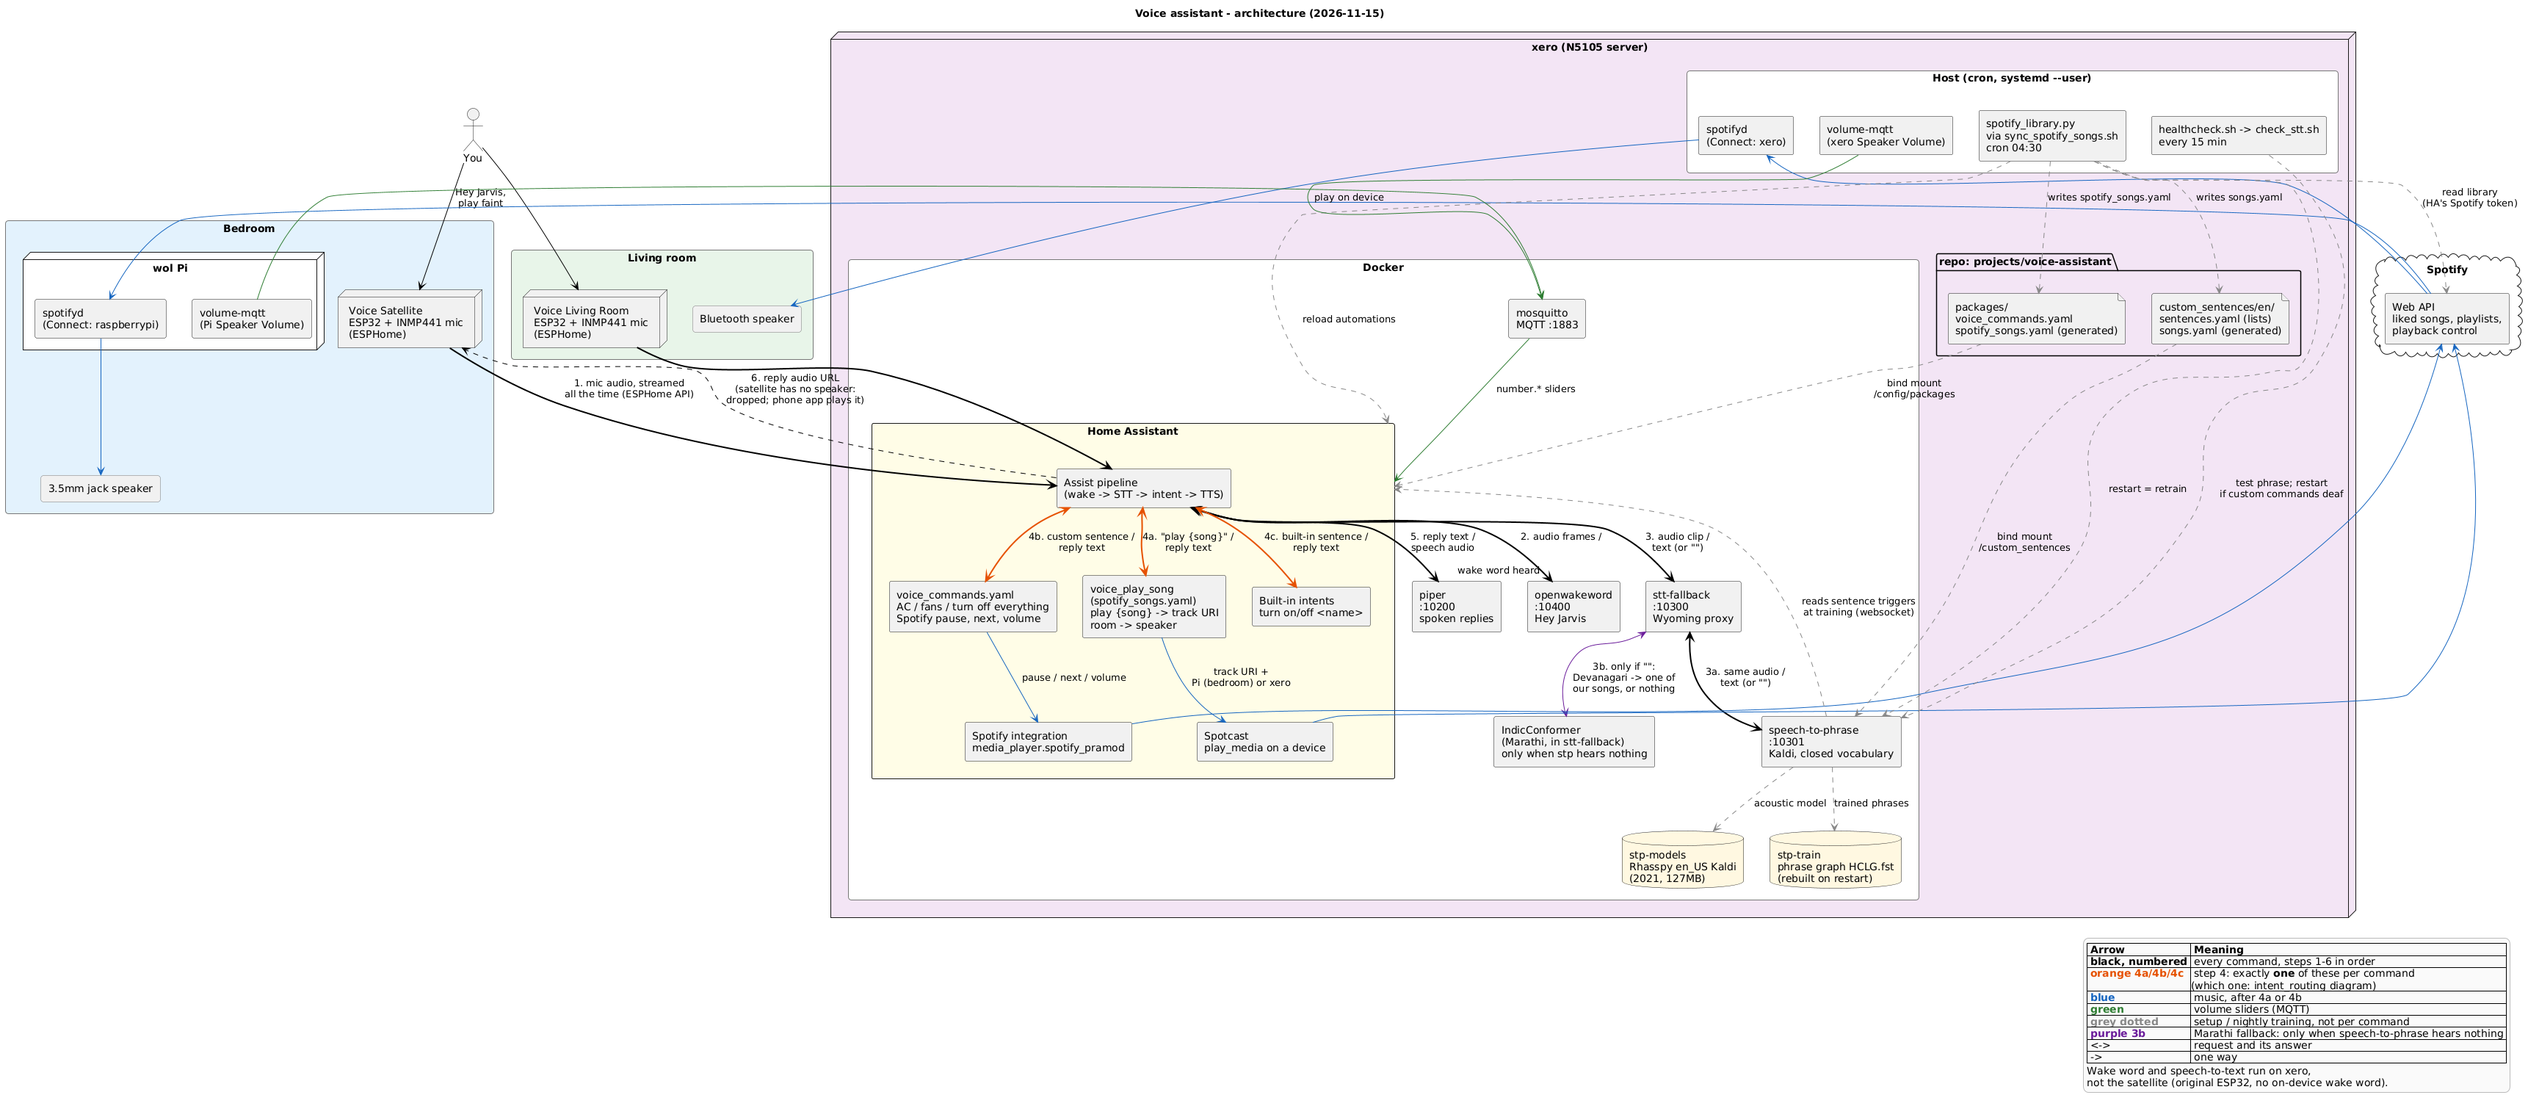
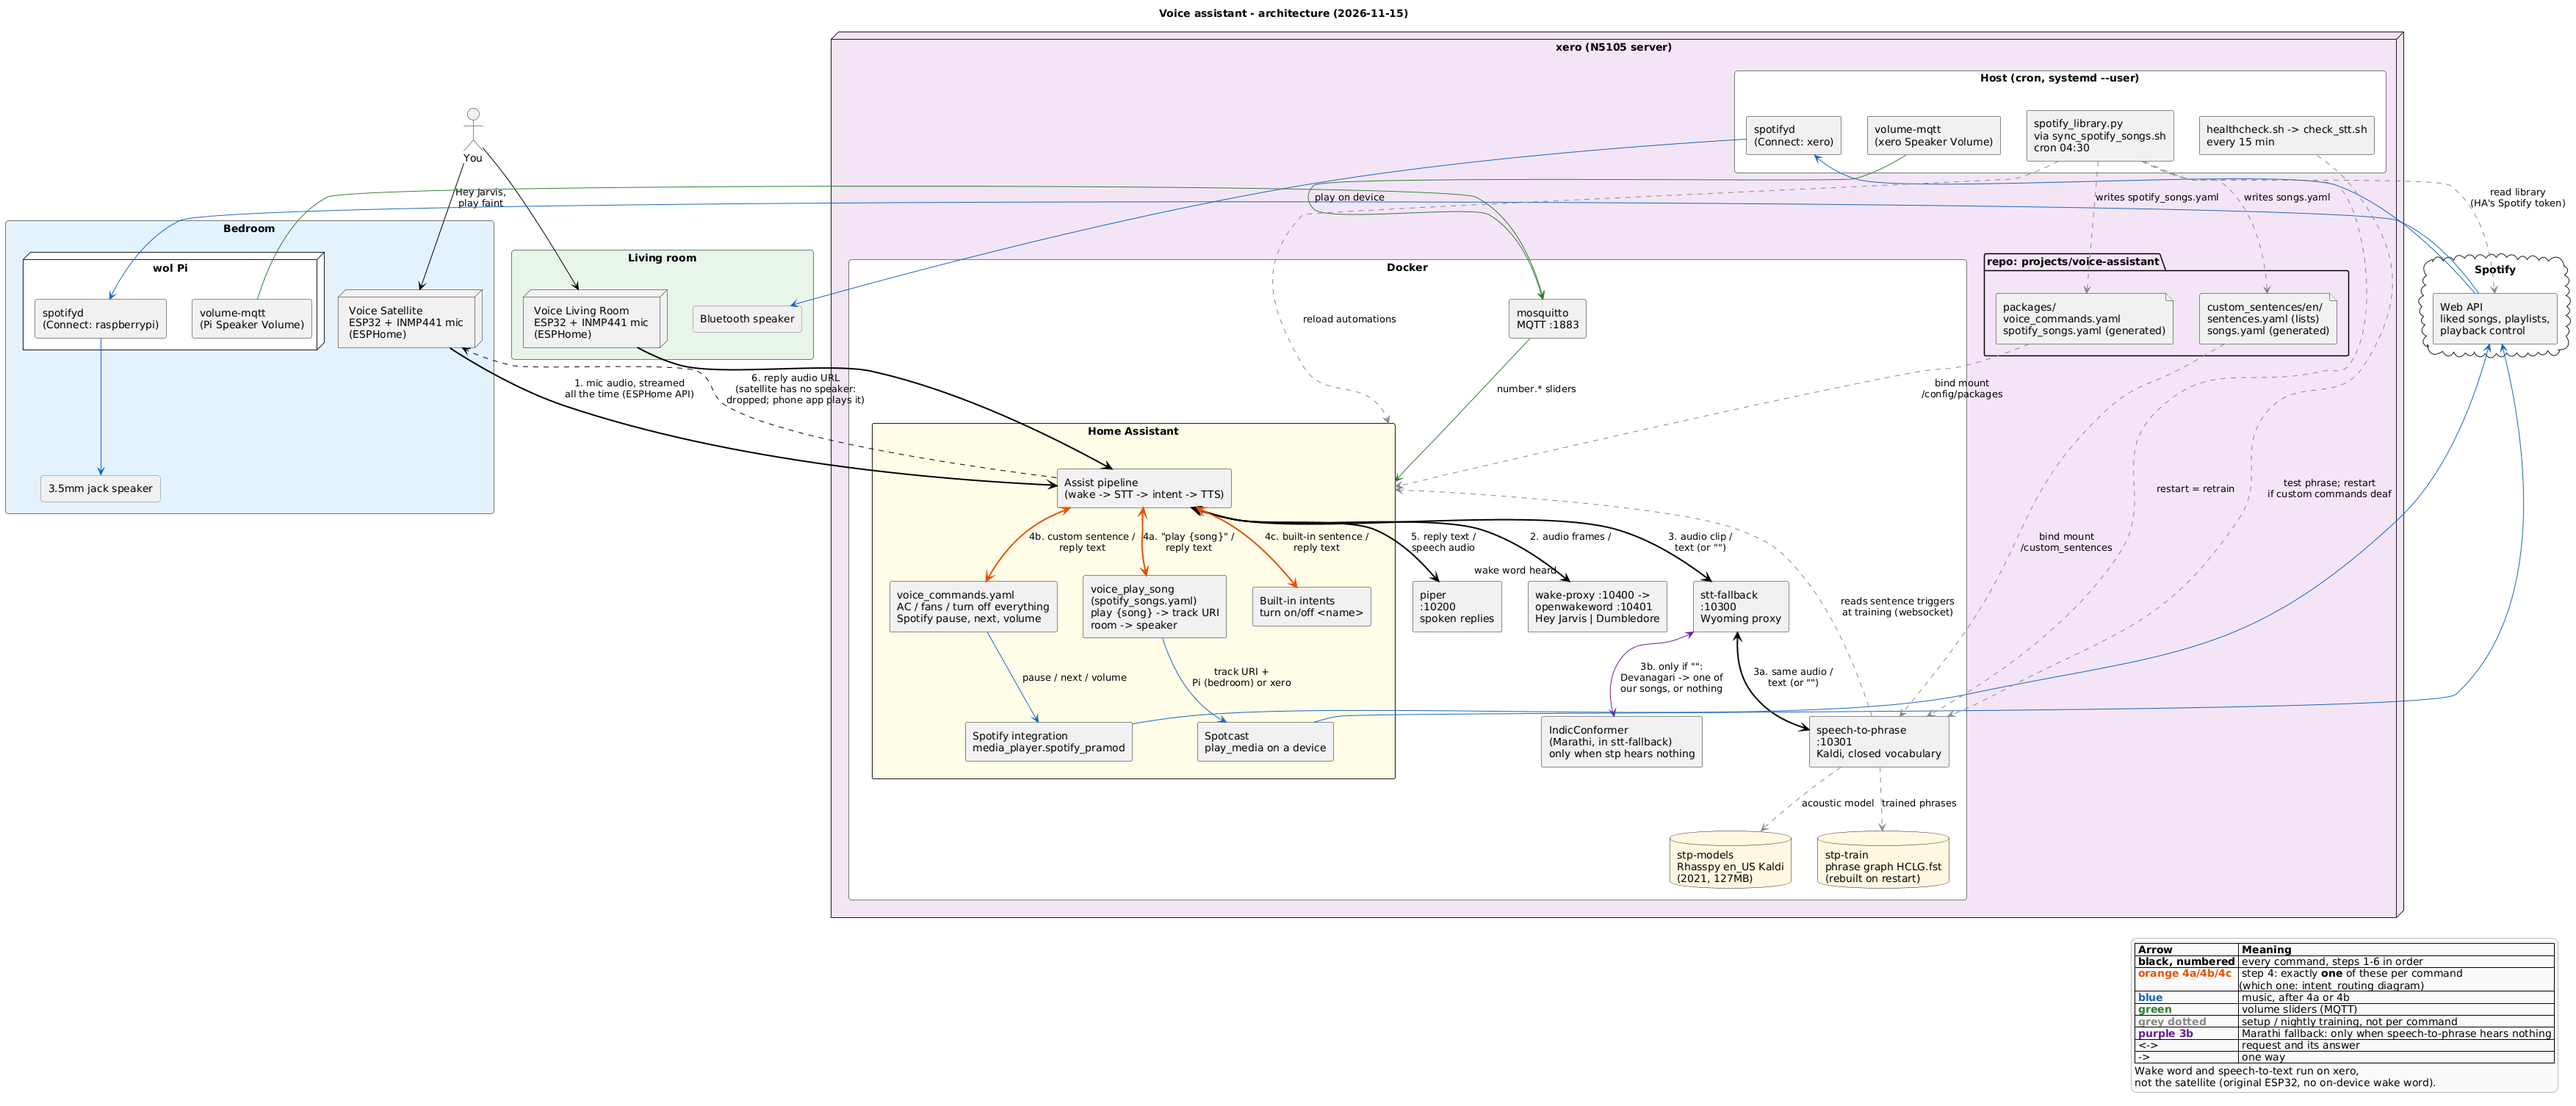
voice: Dumbledore live next to Hey Jarvis via wake-proxy (Wyoming proxy adds the extra word, reports it as the one HA asked for); openwakeword moves to 10401

diff --git a/projects/voice-assistant/wake_proxy.py b/projects/voice-assistant/wake_proxy.py
@@ -1,0 +1,117 @@
+#!/usr/bin/env python3
+"""Wyoming wake-word proxy: more than one wake word live at once.
+
+HA's Assist pipeline asks openWakeWord for exactly ONE wake word (the
+pipeline's `wake_word_id`, "hey_jarvis") and drops any detection with another
+name ("Expected wake word ... skipping", HA 2026.11 wyoming/wake_word.py).
+openWakeWord itself can listen for several at once. This proxy sits on :10400
+(the port openwakeword used to publish, so HA's config did not change) and
+rewrites two events, passing everything else through unchanged:
+
+- `detect` from HA: names [hey_jarvis] -> [hey_jarvis, dumbledore, ...]
+- `detection` from openwakeword: name dumbledore -> the name HA asked for
+
+So "Dumbledore" wakes the satellites exactly as "Hey Jarvis" does. Logs one
+line per detection with the word that was really heard. No satellite flashing:
+the boards only stream audio; wake words are detected here on xero.
+EXTRA_WAKE_WORDS (comma-separated, default "dumbledore") must be preloaded
+by the openwakeword container. Runs in the wake-proxy container
+(docker-compose.yml); see README.md.
+"""
+import asyncio
+import json
+import os
+import time
+
+LISTEN = int(os.environ.get("LISTEN_PORT", "10400"))
+UPSTREAM = os.environ.get("UPSTREAM", "openwakeword:10400")
+EXTRA = [w.strip() for w in os.environ.get("EXTRA_WAKE_WORDS", "dumbledore").split(",") if w.strip()]
+
+
+def log(msg):
+    print(time.strftime("%Y-%m-%d %H:%M:%S"), msg, flush=True)
+
+
+async def read_event(reader):
+    """One Wyoming event: (header, data with data_length part merged, raw bytes, payload)."""
+    line = await reader.readline()
+    if not line:
+        return None
+    hdr = json.loads(line)
+    raw = line
+    data = dict(hdr.get("data") or {})
+    if hdr.get("data_length"):
+        db = await reader.readexactly(hdr["data_length"])
+        raw += db
+        data.update(json.loads(db))
+    payload = b""
+    if hdr.get("payload_length"):
+        payload = await reader.readexactly(hdr["payload_length"])
+        raw += payload
+    return hdr, data, raw, payload
+
+
+def encode(hdr, data):
+    db = json.dumps(data, ensure_ascii=False).encode()
+    h = {"type": hdr["type"], "data_length": len(db)}
+    if "version" in hdr:
+        h["version"] = hdr["version"]
+    return json.dumps(h, ensure_ascii=False).encode() + b"\n" + db
+
+
+async def handle(c_reader, c_writer):
+    host, port = UPSTREAM.rsplit(":", 1)
+    try:
+        u_reader, u_writer = await asyncio.open_connection(host, int(port))
+    except OSError as e:
+        log(f"upstream {UPSTREAM} unreachable: {e}")
+        c_writer.close()
+        return
+    asked = {"names": None}  # what HA asked for on this connection
+
+    async def client_to_upstream():
+        while ev := await read_event(c_reader):
+            hdr, data, raw, _ = ev
+            if hdr["type"] == "detect" and data.get("names"):
+                asked["names"] = list(data["names"])
+                names = asked["names"] + [w for w in EXTRA if w not in asked["names"]]
+                raw = encode(hdr, {**data, "names": names})
+            u_writer.write(raw)
+            await u_writer.drain()
+
+    async def upstream_to_client():
+        while ev := await read_event(u_reader):
+            hdr, data, raw, _ = ev
+            if hdr["type"] == "detection":
+                heard = data.get("name")
+                if asked["names"] and heard not in asked["names"]:
+                    raw = encode(hdr, {**data, "name": asked["names"][0]})
+                    log(f"heard {heard!r} -> reported as {asked['names'][0]!r}")
+                else:
+                    log(f"heard {heard!r}")
+            c_writer.write(raw)
+            await c_writer.drain()
+
+    # Either side hanging up ends both (same as stt_fallback.py).
+    tasks = [asyncio.ensure_future(client_to_upstream()), asyncio.ensure_future(upstream_to_client())]
+    try:
+        await asyncio.wait(tasks, return_when=asyncio.FIRST_COMPLETED)
+    except Exception as e:
+        log(f"connection error: {e!r}")
+    finally:
+        for t in tasks:
+            t.cancel()
+        await asyncio.gather(*tasks, return_exceptions=True)
+        for w in (c_writer, u_writer):
+            w.close()
+
+
+async def main():
+    server = await asyncio.start_server(handle, "0.0.0.0", LISTEN)
+    log(f"listening on :{LISTEN}, upstream {UPSTREAM}, extra wake words {EXTRA}")
+    async with server:
+        await server.serve_forever()
+
+
+if __name__ == "__main__":
+    asyncio.run(main())

diff --git a/projects/voice-assistant/wyoming_wake.py b/projects/voice-assistant/wyoming_wake.py
@@ -1,0 +1,51 @@
+#!/usr/bin/env python3
+"""Stream a 16kHz mono WAV to a Wyoming wake-word server, print what it detects.
+
+Asks for one wake word, like HA does, so it tests wake_proxy.py:
+    wyoming_wake.py 127.0.0.1:10400 hey_jarvis clip.wav   # the proxy (what HA uses)
+    wyoming_wake.py 127.0.0.1:10401 hey_jarvis clip.wav   # openwakeword alone
+Prints "detected <name>" or "not detected". 1s of silence is added after the
+clip so the detector sees the end of the word.
+"""
+import json
+import socket
+import sys
+
+
+def send(sock, typ, data=None, payload=b""):
+    db = json.dumps(data or {}).encode()
+    hdr = {"type": typ, "version": "1.5.0", "data_length": len(db)}
+    if payload:
+        hdr["payload_length"] = len(payload)
+    sock.sendall(json.dumps(hdr).encode() + b"\n" + db + payload)
+
+
+def main():
+    host, port = sys.argv[1].rsplit(":", 1)
+    pcm = open(sys.argv[3], "rb").read()[44:] + bytes(32000)
+    fmt = {"rate": 16000, "width": 2, "channels": 1}
+    s = socket.create_connection((host, int(port)), timeout=30)
+    send(s, "detect", {"names": [sys.argv[2]]})
+    send(s, "audio-start", fmt)
+    for i in range(0, len(pcm), 2048):
+        send(s, "audio-chunk", {**fmt, "timestamp": i // 32}, pcm[i:i + 2048])
+    send(s, "audio-stop")
+    f = s.makefile("rb")
+    while line := f.readline():
+        hdr = json.loads(line)
+        data = hdr.get("data") or {}
+        if hdr.get("data_length"):
+            data.update(json.loads(f.read(hdr["data_length"])))
+        if hdr.get("payload_length"):
+            f.read(hdr["payload_length"])
+        if hdr["type"] == "detection":
+            print(f"detected {data.get('name')}")
+            return
+        if hdr["type"] == "not-detected":
+            print("not detected")
+            return
+    print("connection closed")
+
+
+if __name__ == "__main__":
+    main()

diff --git a/projects/voice-assistant/README.md b/projects/voice-assistant/README.md
@@ -33,7 +33,7 @@ Edit the `.puml`, then run `render_architecture.sh` (PlantUML in Docker) and com
 | Command matching | HA's own conversation agent (`prefer_local_intents` on), plus `packages/voice_commands.yaml` for what its built-in sentences do not cover |
 | Text-to-speech | `piper` container, `127.0.0.1:10200`, voice `en_US-lessac-medium`. **Required, not optional** - see Gotchas. |
 | Pipeline | The preferred "Home Assistant" Assist pipeline: `stt.speech_to_phrase` + `tts.piper` |
-| Mic | Two ESP32 + INMP441 satellites on ESPHome (Voice Satellite in the bedroom, Voice Living Room), streaming audio to HA all the time; wake word "Hey Jarvis" in the `openwakeword` container on xero (the boards are original ESP32s, no on-device wake word). Also the HA phone app's Assist button. Wiring: `wiring.html` |
+| Mic | Two ESP32 + INMP441 satellites on ESPHome (Voice Satellite in the bedroom, Voice Living Room), streaming audio to HA all the time; wake words **"Hey Jarvis" and "Dumbledore"** (both live since 2026-11-16, see "Two wake words") in the `openwakeword` container on xero, reached through `wake-proxy` (the boards are original ESP32s, no on-device wake word). Also the HA phone app's Assist button. Wiring: `wiring.html` |
 
 ## Choosing the speech-to-text
 
@@ -57,6 +57,22 @@ Why Speech-to-Phrase:
 - **Speed:** it is the only accurate option fast enough on the N5105.
 - **No made-up commands:** it can only return a phrase it was trained on (or nothing), so noise never becomes a wrong command. The cost is that it can't hear anything it wasn't trained on: every song title must be in the trained list, and Marathi needs aliases.
 - **The English model fails on Marathi pronunciation.** Speech-to-Phrase uses Rhasspy's English Kaldi model (2021). Google's Marathi voice failed on every clip; real voice sits in between.
+
+## Two wake words (`wake-proxy`, since 2026-11-16)
+
+Either "Hey Jarvis" or "Dumbledore" wakes both satellites. No flashing: the boards only stream audio; wake words are detected on xero.
+
+| Piece | What |
+|---|---|
+| `wake-proxy` container, `127.0.0.1:10400` (what HA's openWakeWord integration points at) | `wake_proxy.py`: HA asks for one wake word (the pipeline's `hey_jarvis`); the proxy adds `EXTRA_WAKE_WORDS` (`dumbledore`) to the request and reports a Dumbledore detection back as `hey_jarvis`, which HA would otherwise drop ("Expected wake word ... skipping") |
+| `openwakeword` container, `127.0.0.1:10401` | the detector; an extra word must be in its `--preload-model` list |
+| Logs | `docker logs wake-proxy`: one line per detection with the word really heard - use it to count false wakes per word |
+| Test | `wyoming_wake.py 127.0.0.1:10400 hey_jarvis clip.wav` (through the proxy) or `:10401` (direct) |
+
+- **Tested 2026-11-16 with TTS clips:** "hey jarvis" detected; "dumbledore" detected for 2 of 6 synthetic voices (Google en-GB, Piper), none for the others - real voice is the test. "turn on the fan" not detected. Both satellites reconnected through the proxy; openwakeword CPU unchanged (~39% of one core), proxy ~6%.
+- **Add or drop a word:** `EXTRA_WAKE_WORDS` in `docker-compose.yml` (and `--preload-model`), `docker compose up -d wake-proxy`.
+- **Rollback:** point openwakeword back at `127.0.0.1:10400:10400` and remove `wake-proxy`.
+- More wake words = more false wakes (each adds its own).
 
 ## Marathi fallback (`stt-fallback`, since 2026-11-15)
 
@@ -190,12 +206,14 @@ white noise, AC.
   clone (venv, no Docker) flashes over USB on the Mac, OTA, or copies the
   `.bin` to xero for `esphome.sh flash-bin`.
 - `wakewords/` - custom openWakeWord models, mounted into the `openwakeword`
-  container (`127.0.0.1:10400`, preloads `hey_jarvis`, the wake word since 2026-10-08; `okay_nabu` before).
+  container (`127.0.0.1:10401` direct, `10400` through `wake-proxy`; preloads `hey_jarvis`, the wake word since 2026-10-08, `okay_nabu` before).
   `andromeda.tflite` and `dumbledore.tflite` (from the community collection,
   https://github.com/fwartner/home-assistant-wakewords-collection, 2026-10-11)
-  are preloaded too, waiting to be tried instead of training "Alejandro". To
-  try one: `WAKE_WORD_ID` in `setup_assist.py`, run it, restart
-  speech-to-phrase; add `--debug` to openwakeword to see detections.
+  are preloaded too; **dumbledore is live** next to hey_jarvis since 2026-11-16
+  (see "Two wake words"). The pipeline's `WAKE_WORD_ID` in `setup_assist.py`
+  stays `hey_jarvis`; add `--debug` to openwakeword to see detections.
+- `wake_proxy.py` - the `wake-proxy` container: several wake words live at once.
+- `wyoming_wake.py` - streams a WAV to a Wyoming wake-word server, prints what it detects.
 - `check_stt.sh` + `stt_probe.wav` - sends a saved "turn off the AC" clip
   (Piper's voice) through speech-to-text. Run every 15 min by
   `projects/healthcheck/healthcheck.sh`, which restarts speech-to-phrase

diff --git a/PROJECTS.md b/PROJECTS.md
@@ -3347,7 +3347,8 @@ Everything is off-the-shelf: setup only, no code to maintain.
 - [ ] **Together, when Pramod agrees:** turn on HA debug recording for a day (one HA restart) to hear the bedroom tries that came back empty or wrong; turn it off and move the folder out of HOMEASSISTANT_CONFIG after
 - [ ] **Claude:** add `ALIASES` in `spotify_library.py` for the titles that fail
 - [ ] **Pramod:** try Marathi titles by voice in both rooms now that the IndicConformer fallback is live (2026-11-15); `docker logs stt-fallback` shows what it heard
-- [ ] **Claude:** try `andromeda` / `dumbledore` against `hey_jarvis` (`WAKE_WORD_ID` in `projects/voice-assistant/setup_assist.py`, restart speech-to-phrase, temporary `--debug` on openwakeword); train on Colab only if neither works
+- [ ] **Pramod:** try "Dumbledore" by voice in both rooms (live next to "Hey Jarvis" since 2026-11-16); `docker logs wake-proxy` shows which word woke it
+- [ ] **Claude, after a week:** count false wakes per word from `docker logs wake-proxy`; drop Dumbledore if it adds many
 - [ ] **Pramod:** check which end (DIN, follow the arrows) of the bedroom strip is wired before connecting it
 - [ ] **Together, when Pramod says go:** build `projects/voice-assistant/plan-room-replies.md` (revised 2026-11-15 after review, on hold): Pi audio test, MQTT reply bridge + VLC, HA scripts, then the reflash
 - [ ] **Claude, when Pramod says go:** "stop white noise" sentences (HA matches them to a lawn mower today) - plan step 1
@@ -3386,6 +3387,7 @@ qty | item | est | note
 The pipeline already answers in speech (Piper, `127.0.0.1:10200`), but the satellites have no way to play it, so today a command only shows on the LED. Adding a MAX98357A + small speaker per board gives spoken replies and confirmation tones. It goes on its own I2S bus (the ESP32 has two), not shared with the mic: LRC GPIO26, BCLK GPIO27, DIN GPIO22 - all free and none of them strapping pins - with VIN to 5V, GND, and SD left unconnected (amp on). Firmware: a second `i2s_audio` bus, an `i2s_audio` speaker, and `speaker:` on `voice_assistant`; ESPHome mutes the mic while the reply plays, so the board does not hear itself. Not wired or flashed yet.
 
 #### Log
+- 2026-11-16: **"Dumbledore" live next to "Hey Jarvis"** (user: use both, no plan file). HA asks openWakeWord for one word and drops other detections, so a new `wake-proxy` container (`wake_proxy.py`, `127.0.0.1:10400`; openwakeword moved to 10401) adds dumbledore to the request and reports it back as hey_jarvis. No flashing. TTS test: hey jarvis yes; dumbledore 2 of 6 synthetic voices (real voice to test); "turn on the fan" no. Both satellites reconnected through it; openwakeword CPU unchanged (~39% of a core), proxy ~6%. Docs: README "Two wake words", diagrams, endpoints.toml, hardware.md.
 - 2026-11-16: **multi-room plan revised** after `architecture-review` (13 findings, all applied: snapserver as a user unit with the FIFO in /run/user, ports off the tailnet, watchdog required, Bluetooth sink pinned, voice templates in `spotify_library.py`). Decisions: "Everywhere", both phrases, bedroom muted while white noise is on, tiles per room, web page off. `plan-room-replies.md` gets the "Everywhere" case (mute this room's client during a reply).
 - 2026-11-16: entries merged (see top); multi-room plan written: `projects/spotifyd/plan-multiroom.md` (Snapcast, a second spotifyd "Both rooms" feeding it; feasible, not built).
 - 2026-11-15: **parallel vs fallback measured** (user: run both models at once for "play" if the CPU can take it, else keep the fallback). `bench_stt_parallel.sh`, 5 runs per clip, p50 seconds per request:
